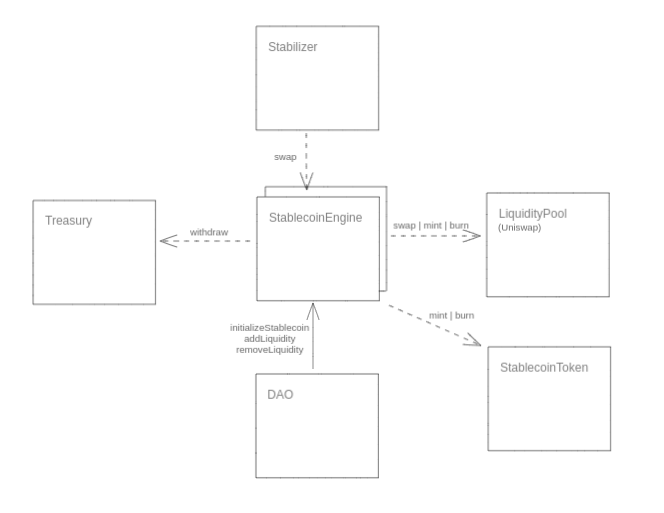
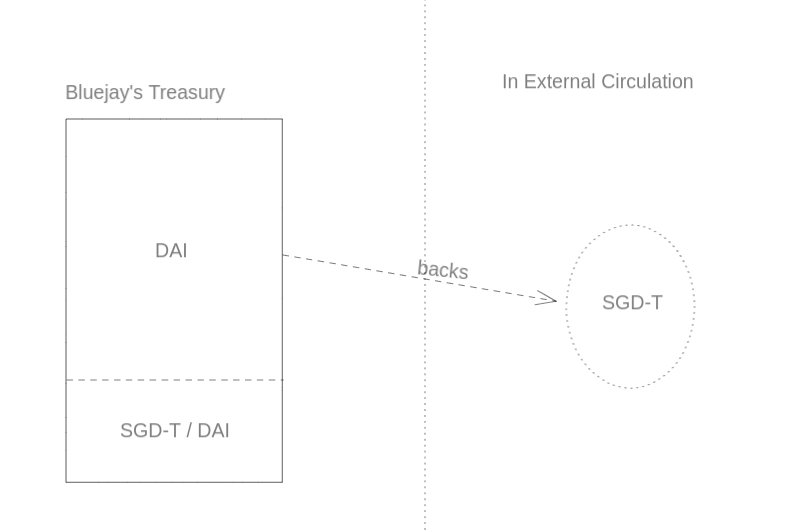
GitBook: [#10] Arrows to indicate value backing

diff --git a/core-concepts/collateralization.md b/core-concepts/collateralization.md
@@ -35,7 +35,7 @@ When there is less demand for stablecoin, the contractionary bonds will be sold.
 
 ### Understanding collateralization
 
-![Initial states](<../.gitbook/assets/image (7).png>)
+![Overcollateralization: More reserve value than stablecoins'](<../.gitbook/assets/image (5).png>)
 
 In the early days of the protocol, the protocol will be over-collateralized. That means that the value of the DAI held in the treasury will be more than or equal to the aggregate value of all the stablecoin in external circulation. In the diagram above, the DAI in the treasury backs the SGD-T in external circulation.
 
@@ -43,7 +43,7 @@ The stablecoins held by the protocol, through the liquidity tokens, are backed 1
 
 Since the protocol can be used to issue other assets, the reserve asset can be used to create new stablecoins and their liquidity pool. That means there will be more than one type of liquidity token held by the treasury.&#x20;
 
-![](<../.gitbook/assets/image (2).png>)
+![Fractional Reserve: Less reserve value than stablecoins'](<../.gitbook/assets/image (8).png>)
 
 Once the protocol has reached a certain scale and stability, where it is possible to forecast the number of stablecoins in circulation, it is possible for the protocol to transit into a fractional reserve model. This means that the reserve assets held in the treasury have a lower value than the aggregate value of all the stablecoins in circulation. Moving into a fractional reserve model means that the protocol becomes more capital efficient (ie 1 USD of assets can be used to back >1 USD of stablecoins), but also increase the risk of the protocol to remain solvent and retain the peg of the issued stablecoins.
 

diff --git a/core-concepts/stablecoin-minting.md b/core-concepts/stablecoin-minting.md
@@ -2,7 +2,7 @@
 
 Each stablecoin created by the protocol is backed by liquidity directly. This allows the protocol to be highly capital-efficient compared to models using overcollateralization only.
 
-![The DAO manages the issuance of stablecoins](<../.gitbook/assets/image (5).png>)
+![The DAO manages the issuance of stablecoins](<../.gitbook/assets/image (5) (1).png>)
 
 ### Overview
 

diff --git a/smart-contract/overview.md b/smart-contract/overview.md
@@ -1,6 +1,6 @@
 # Overview
 
-![Architecture of Bluejay Protocol](<../.gitbook/assets/image (8).png>)
+![Architecture of Bluejay Protocol](<../.gitbook/assets/image (8) (1).png>)
 
 ### Overview
 
